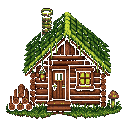
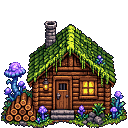
Revert ranger cabin exterior to pre-interior buildings v2 art
Restore assets/images/maps/buildings/ranger_cabin.png from the original
placeable-buildings sprite. Drop the AI hard-NN exterior remake script
and gen JPG; buildings README again treats the cabin like the other
process_buildings sprites. Interior #134 work is unchanged.

diff --git a/tools/buildings/README.md b/tools/buildings/README.md
@@ -1,13 +1,8 @@
 # Buildings v2: placeable building sprites
 
-Six city/core buildings come from `gen_src/buildings/*_front_magenta.jpg` via `tools/process_buildings.py`
-(`.venv/bin/python tools/process_buildings.py` — magenta key, despill, area downscale, sharpen, palette,
-binary alpha, selective navy outline).
-
-**Ranger cabin** is AI image-gen → hard pixel: source
-`tools/buildings/gen_src/ranger_cabin_front.jpg`, assembled by
-`tools/buildings/make_ranger_cabin_pixel.py` (`pixelize_gen` + NEAREST palette snap to 128×128).
-Re-gen the JPG with hard pixel art in mind, then re-run that script — do not Pillow-invent the sprite.
+Seven buildings made from `gen_src/buildings/*_front_magenta.jpg` by `tools/process_buildings.py`.
+That script reuses `tools/process_gen.py` (magenta key, despill, area downscale, sharpen, palette, binary alpha,
+selective navy outline). Re-run it with `.venv/bin/python tools/process_buildings.py`.
 
 ## Files
 - `<name>.png`: RGBA sprite. Alpha is binary (0/255), there is no magenta fringe, and transparent pixels are RGB 0.
